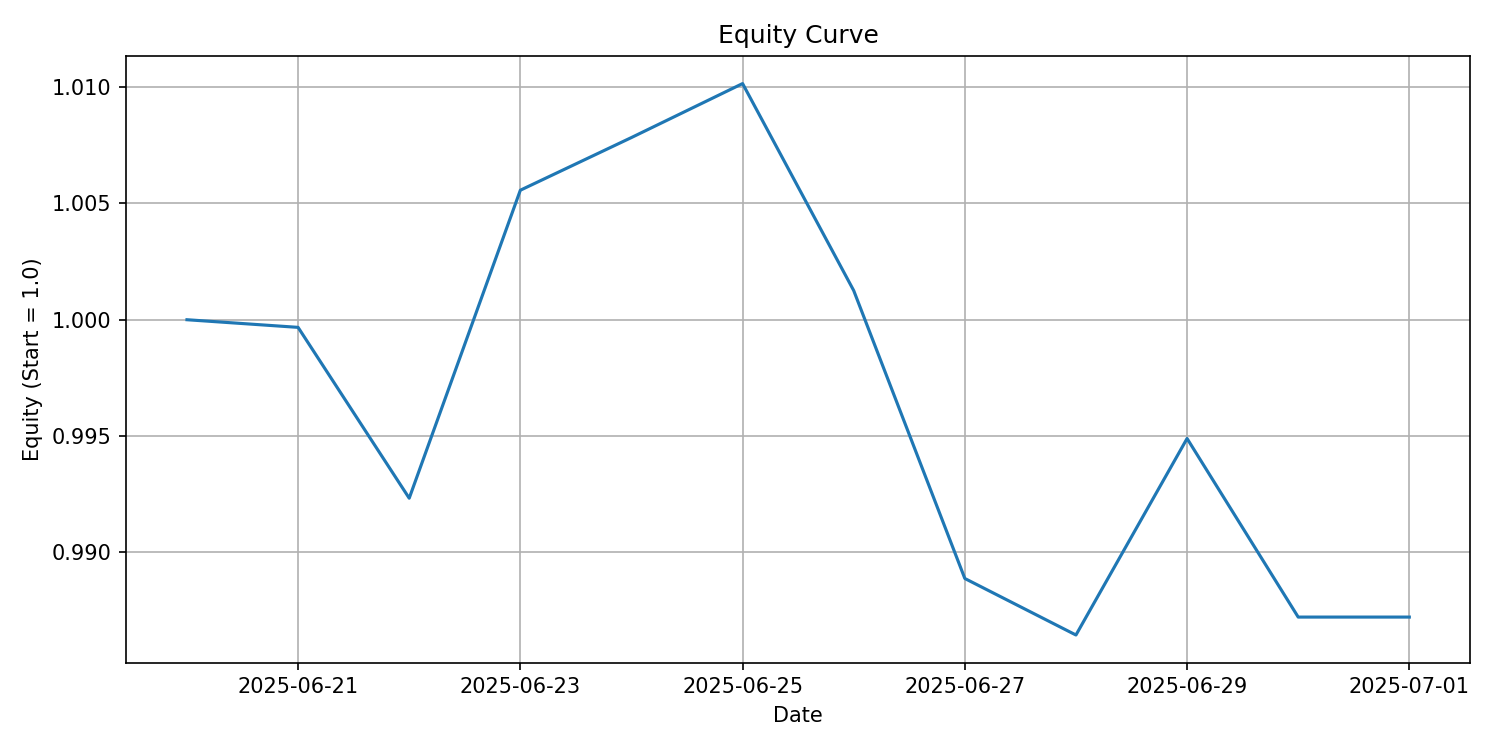
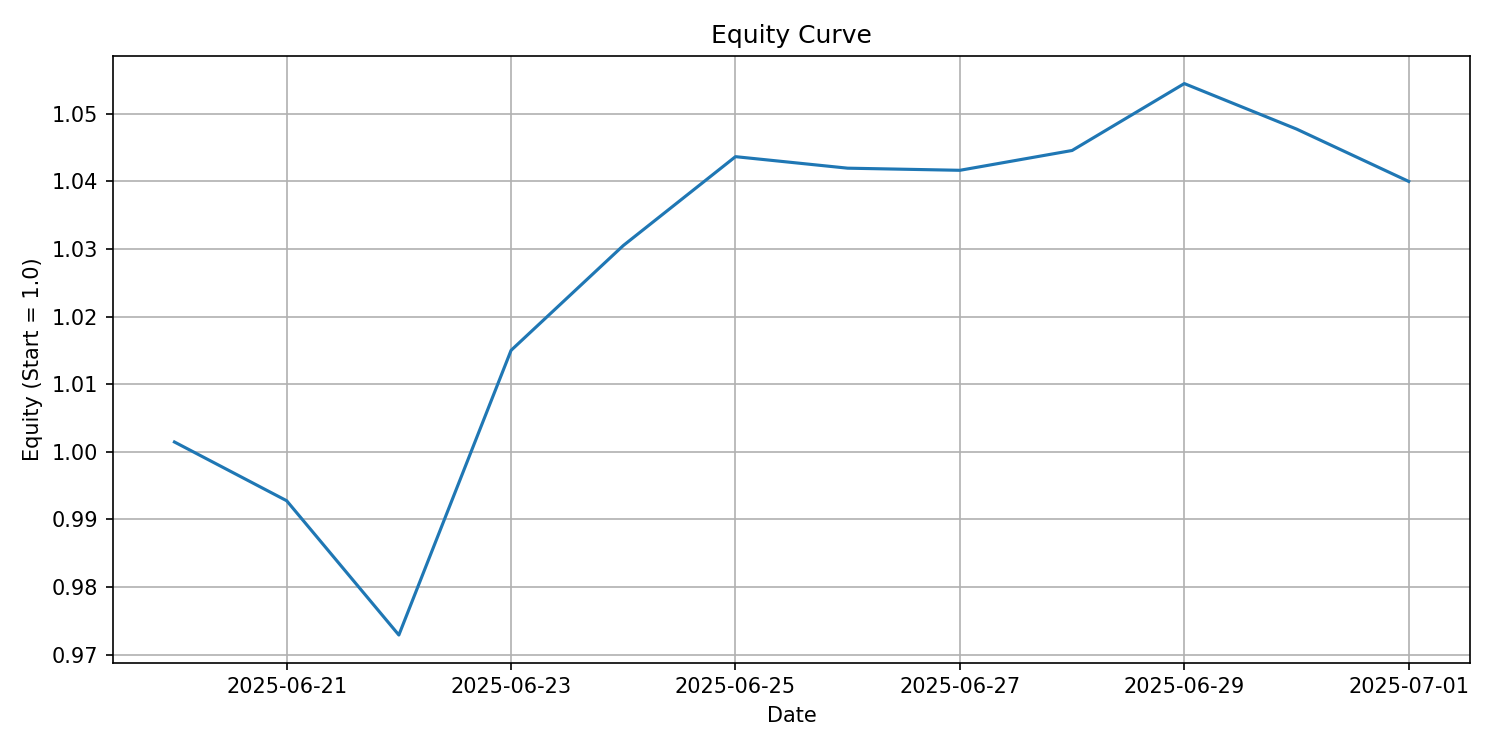
added files

diff --git a/lib/Backtester.py b/lib/Backtester.py
@@ -7,11 +7,16 @@ import matplotlib.pyplot as plt
 from lib.Strategy import BaseStrategy
 
 
-# =================== Backtest Engine ===================
 class Backtester:
     def __init__(self, df: pd.DataFrame, strategy: BaseStrategy,
                  notional=1.0, transaction_cost_bps=0.0,
                  day_boundary_tz="UTC", resample_freq=None):
+        """
+        df: native (minute) OHLCV with 'dt' or 'open_time' (ms)
+        strategy: generates signals on the NATIVE df (granular)
+        resample_freq: trading cadence (e.g., '30min','1H','1D').
+                       If None -> trade on native cadence.
+        """
         self.df = df
         self.strategy = strategy
         self.notional = float(notional)
@@ -19,7 +24,9 @@ class Backtester:
         self.day_boundary_tz = day_boundary_tz
         self.resample_freq = resample_freq
 
-    def _ensure_dt(self, df: pd.DataFrame) -> pd.DataFrame:
+    # ---------------- core helpers ----------------
+    @staticmethod
+    def _ensure_dt(df: pd.DataFrame) -> pd.DataFrame:
         out = df.copy()
         if "dt" in out.columns:
             out["dt"] = pd.to_datetime(out["dt"], utc=True)
@@ -29,40 +36,83 @@ class Backtester:
             raise ValueError("DataFrame must contain 'dt' or 'open_time' (milliseconds).")
         return out.sort_values("dt").reset_index(drop=True)
 
-    def _maybe_resample(self, df: pd.DataFrame) -> pd.DataFrame:
+    def _build_trade_bars(self, df_native: pd.DataFrame) -> pd.DataFrame:
+        """
+        Build trading bars (OHLCV) at self.resample_freq.
+        If resample_freq is None -> use native cadence as 'trade bars'.
+        """
         if not self.resample_freq:
-            return df
+            # trade on native cadence
+            cols = ["dt", "open", "high", "low", "close", "volume"]
+            missing = [c for c in ["open", "high", "low", "close"] if c not in df_native.columns]
+            if missing:
+                raise ValueError(f"Native trading requires OHLC columns: {missing}")
+            return df_native[cols].copy()
+
         req = {"open", "high", "low", "close"}
-        if not req.issubset(df.columns):
+        if not req.issubset(df_native.columns):
             raise ValueError(f"Resampling requires columns {req}.")
-        x = df.set_index("dt")
+
+        x = df_native.set_index("dt")
         agg = {"open": "first", "high": "max", "low": "min", "close": "last"}
-        if "volume" in df.columns:
+        if "volume" in df_native.columns:
             agg["volume"] = "sum"
-        y = x.resample(self.resample_freq).agg(agg).dropna(subset=["open", "high", "low", "close"])
-        return y.reset_index()
 
-    def _build_bar_frame(self, df: pd.DataFrame) -> pd.DataFrame:
-        close = pd.to_numeric(df["close"], errors="coerce")
-        ret = close.pct_change().fillna(0.0)
+        # label/closed='right' => bar timestamp = bar end
+        trade = (
+            x.resample(self.resample_freq, label="right", closed="right")
+            .agg(agg)
+            .dropna(subset=["open", "high", "low", "close"])
+            .reset_index()
+        )
+        return trade
 
-        signals = self.strategy.generate_signals(df).astype(float)
-        position = signals.shift(1).fillna(0.0)
+    def _build_trade_frame_from_native_signals(self, df_native: pd.DataFrame) -> pd.DataFrame:
+        """
+        1) Generate signals on native df
+        2) Build trading bars
+        3) Align 'last native signal up to trade bar END' -> then shift one bar to avoid look-ahead
+        4) Compute returns/PnL/turnover on trading cadence
+        """
+        # --- 1) signals on native ---
+        signals_native = self.strategy.generate_signals(df_native).astype(float)
+        sig_df = df_native[["dt"]].copy()
+        sig_df["signal_native"] = signals_native.values
+
+        # --- 2) trading bars ---
+        trade_bars = self._build_trade_bars(df_native)  # dt is bar END if resampled
+        # trading returns (close-to-close)
+        trade_close = pd.to_numeric(trade_bars["close"], errors="coerce")
+        trade_ret = trade_close.pct_change().fillna(0.0)
+
+        # --- 3) align native signals to trade bar end ---
+        # take the last native signal up to each trade bar end
+        # merge_asof: left=trade bars, right=native signals, direction='backward'
+        aligned = pd.merge_asof(
+            trade_bars.sort_values("dt"),
+            sig_df.sort_values("dt"),
+            left_on="dt", right_on="dt",
+            direction="backward"
+        )
+        # realized position = signal at previous TRADE bar close (one-bar delay)
+        position = aligned["signal_native"].shift(1).fillna(0.0)
+
+        # --- 4) turnover, costs, pnl ---
         turnover = (position - position.shift(1)).abs().fillna(position.abs())
 
-        pnl_gross = self.notional * position * ret
+        pnl_gross = self.notional * position * trade_ret
         cost_per_unit = (self.transaction_cost_bps / 1e4) * self.notional
         costs = cost_per_unit * turnover if self.transaction_cost_bps > 0 else 0.0
         pnl_net = pnl_gross - costs
 
-        out = df.copy()
-        out["ret"] = ret
-        out["signal"] = signals
-        out["position"] = position
-        out["turnover"] = turnover
-        out["pnl_gross"] = pnl_gross
-        out["costs"] = costs
-        out["pnl"] = pnl_net
+        out = trade_bars.copy()
+        out["ret"] = trade_ret.values
+        out["signal_native_at_trade_close"] = aligned["signal_native"].values
+        out["position"] = position.values
+        out["turnover"] = turnover.values
+        out["pnl_gross"] = pnl_gross.values
+        out["costs"] = costs if np.isscalar(costs) else costs.values
+        out["pnl"] = pnl_net.values
         return out
 
     def _daily_group(self, bar_df: pd.DataFrame) -> pd.DataFrame:
@@ -78,18 +128,24 @@ class Backtester:
             bars=("ret", "count"),
         )
         daily["daily_return"] = daily["daily_pnl"] / self.notional
-        daily["profit_over_turnover"] = np.where(
+        daily["profit_over_turnover"] = 10000 * np.where(
             daily["daily_turnover"] > 0, daily["daily_pnl"] / daily["daily_turnover"], np.nan
         )
         daily["equity_curve"] = (1.0 + daily["daily_return"]).cumprod()
         return daily
 
+    # ---------------- public API ----------------
     def run(self):
-        df0 = self._ensure_dt(self.df)
-        df = self._maybe_resample(df0)
-        bar_df = self._build_bar_frame(df)
+        # Ensure dt and sort
+        df_native = self._ensure_dt(self.df)
+
+        # Build trading frame from native signals
+        bar_df = self._build_trade_frame_from_native_signals(df_native)
+
+        # Daily metrics
         daily_df = self._daily_group(bar_df)
 
+        # Sharpe (annualized 252)
         if len(daily_df) > 1 and daily_df["daily_return"].std(ddof=1) > 0:
             sharpe = daily_df["daily_return"].mean() / daily_df["daily_return"].std(ddof=1) * np.sqrt(252.0)
         else:
@@ -122,5 +178,3 @@ class Backtester:
             plt.show()
         else:
             plt.close()
-
-

diff --git a/lib/Strategy.py b/lib/Strategy.py
@@ -19,8 +19,8 @@ class SMACrossoverStrategy(BaseStrategy):
         sma_fast = close.rolling(self.fast, min_periods=self.fast).mean()
         sma_slow = close.rolling(self.slow, min_periods=self.slow).mean()
 
-        raw = np.where(sma_fast > sma_slow, 1,
-                       np.where(sma_fast < sma_slow, -1, 0))
+        raw = np.where(sma_fast > sma_slow, -1,
+                       np.where(sma_fast < sma_slow, 1, 0))
         if not self.allow_short:
             raw = np.where(raw > 0, 1, 0)
         return pd.Series(raw, index=df.index, dtype=float)
